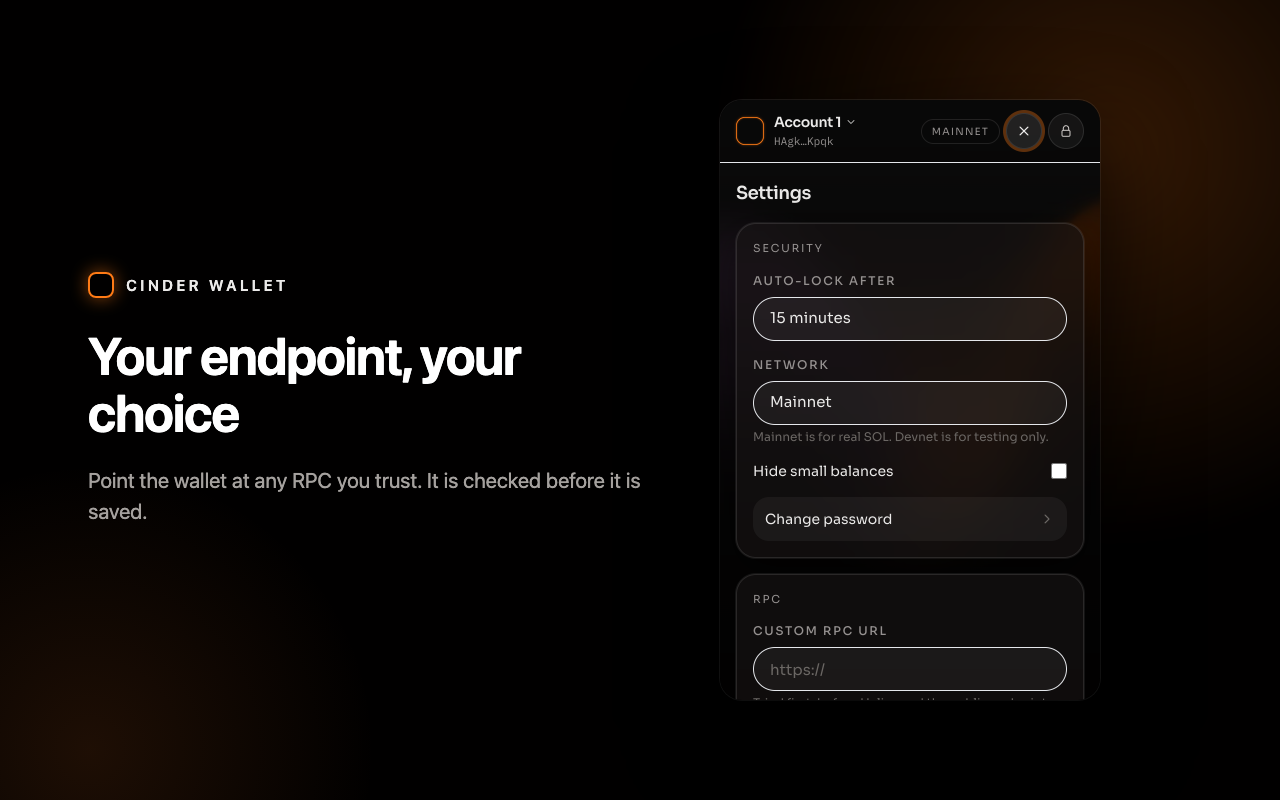
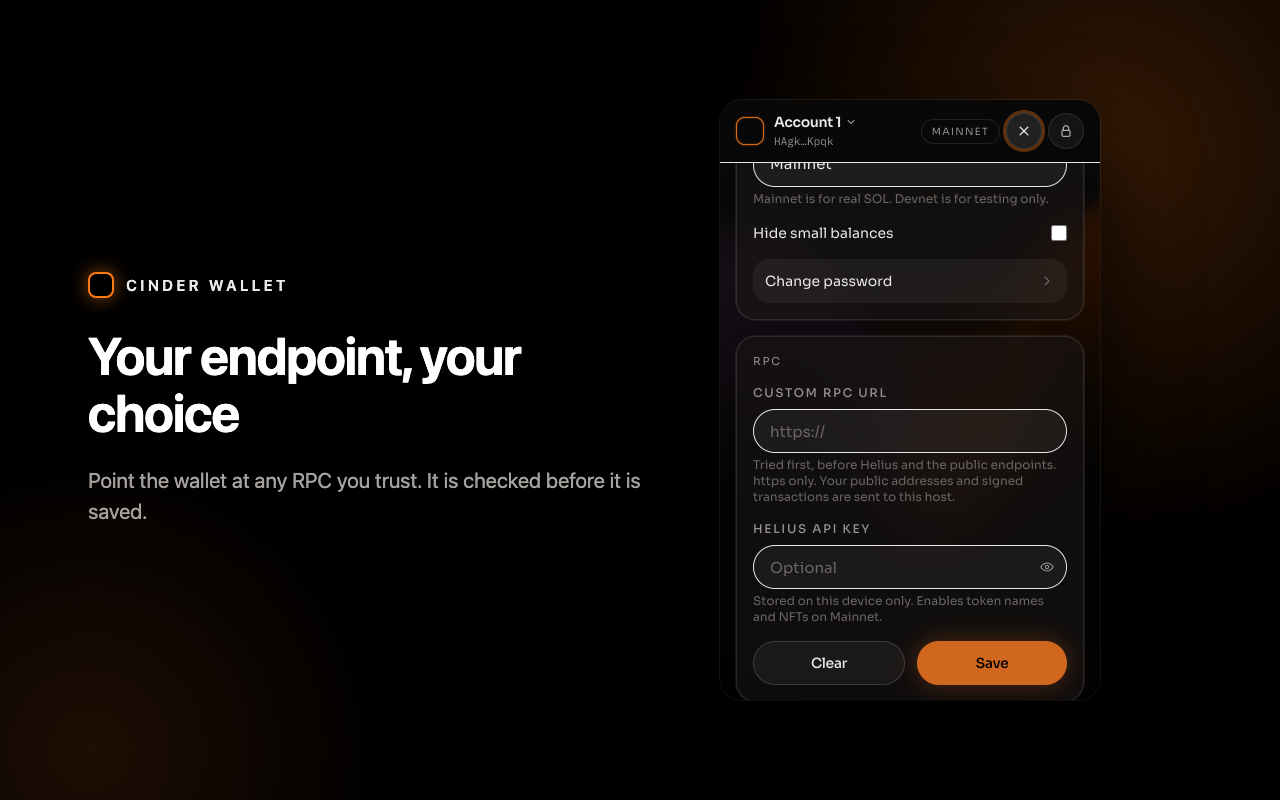
Fix CI, and recapture the store screenshots so every caption is true (#18)
* Let packageManager pin pnpm, and build the store zip in CI

Every run failed at pnpm/action-setup: giving it version: 10 while
package.json carries a packageManager field is an error, not a preference.

Adds the two jobs the SHIP-9 plan drafted: one builds the store zip and
uploads it as an artifact, one runs the extension e2e under xvfb.

* Recapture the store screenshots so every caption is true of its picture

The primary tile claimed "your balance, priced live" over a Devnet capture
showing 0 SOL and "USD prices are hidden". A failed devnet attempt had
overwritten raw/home.png before the mainnet set was stashed, and the composed
image was never opened afterwards.

Rebuilt the set from two runs, each shot taken on the cluster that makes its
own caption true, and every composed image read back before committing.
Provenance and the two rules that prevent a repeat are in
docs/store/screenshots/README.md.

Captures now come from a store-equivalent build (VITE_HELIUS_API_KEY= ), so
the settings screen shows the empty custom-RPC and Helius fields a store
install actually starts with rather than this machine's populated key. Token
names and activity were both confirmed to render with no key, so those screens
are not a keyed-build artefact.

Two captions were overclaiming and now say what their picture shows:
the approval slide describes the exact before-and-after including the fee, and
the token slide drops a Token-2022 claim that no visible row demonstrates.

Also:
[…]

diff --git a/docs/store/screenshots/README.md b/docs/store/screenshots/README.md
@@ -1,0 +1,49 @@
+# Store screenshots
+
+Generated, not hand-made. `raw/` is gitignored; the composed `*-1280x800.png`
+and the two promo tiles are committed and are what gets uploaded.
+
+```bash
+# 1. Build the extension for the cluster you want in the shot.
+VITE_HELIUS_API_KEY= VITE_NETWORK=mainnet-beta CINDER_OUT_DIR=dist-shots pnpm build:extension
+# 2. The approval shots need the test dApp up.
+just dapp
+# 3. Capture, then compose.
+CINDER_OUT_DIR=dist-shots node scripts/capture-screenshots.mjs
+node scripts/compose-store-images.mjs
+```
+
+Each capture step is independent: a screen the machine cannot load is reported
+as `SKIPPED` and leaves the previous file alone, so a partial run never half
+overwrites the set.
+
+## Provenance
+
+The set is assembled from two runs, because no single cluster can show every
+claim. Each caption has to be true of the picture beside it.
+
+| Image | Cluster | Why |
+|---|---|---|
+| `01-home` | mainnet | The caption promises live prices, so it needs a real balance and a real quote. |
+| `02-approve` | devnet | Simulation must succeed. The mainnet fixture cannot pay a fee (see below). |
+| `03-connect` | devnet | Same approval run. |
+| `04-send` | mainnet | The caption promises a network-quoted fee. |
+| `05-tokens` | devnet | The mainnet fixture holds no SPL tokens; the devnet one holds both named and unnamed mints. |
+| `extra-activity` | mainnet | Real dated history. |
+| `extra-receive` | mainnet | Cluster-independent. |
+| `extra-settings` | mainnet, keyless build | Must show the fields a store install actually starts with: empty custom RPC, empty Helius key. |
+
+## Two things to keep honest
+
+**Never compose without looking.** Every composed image must be opened and read
+against its own caption before it is committed. A shot captured from the wrong
+cluster looks fine in a file listing and wrong in the store.
+
+**Capture from a store-equivalent build.** Export `VITE_HELIUS_API_KEY=` so the
+build matches what `just store` ships. Otherwise the settings screen shows a
+populated key field that no store user will ever see. Everything in the current
+set was verified to render identically without a key, with one exception: the
+mainnet screens were captured on a machine whose network cannot reach
+`solana-rpc.publicnode.com`, so those three needed a key to read the chain at
+all. The rendered values are chain facts and are endpoint-independent, but
+`extra-settings` is the one that had to come from the keyless build.

diff --git a/docs/store/listing.md b/docs/store/listing.md
@@ -44,7 +44,7 @@ Upload from `docs/store/screenshots/` (composed from real popup captures at 1280
 2. `02-approve-1280x800.png` — the simulated balance change before signing
 3. `03-connect-1280x800.png` — what a site can and cannot do, in plain language
 4. `04-send-1280x800.png` — a network-quoted fee and the full address
-5. `05-tokens-1280x800.png` — tokens named from chain metadata
+5. `05-tokens-1280x800.png` — named from chain metadata, or shown as the bare mint when a token publishes none
 
 Also required: `promo-small-440x280.png`. Optional: `promo-marquee-1400x560.png`. Icon: `public/icons/icon-128.png`.
 
@@ -56,6 +56,11 @@ where the fixture holds real SOL and prices resolve. Shots 2, 3 and 5 are Devnet
 cannot pay a Mainnet fee — it was assigned away from the system program by someone using the public test
 mnemonic (see `docs/test-wallet.md`), so a Mainnet simulation correctly fails. Both clusters are supported and
 the listing text says so; nothing here is staged or mocked.
+
+Captures come from a build with `VITE_HELIUS_API_KEY=` empty, matching what `just store` ships, so
+`extra-settings` shows the empty fields a store install actually starts with. The per-image provenance table
+and the rule that every composed image is read against its own caption before committing are in
+`docs/store/screenshots/README.md`.
 
 ## Privacy practices (dashboard)
 
